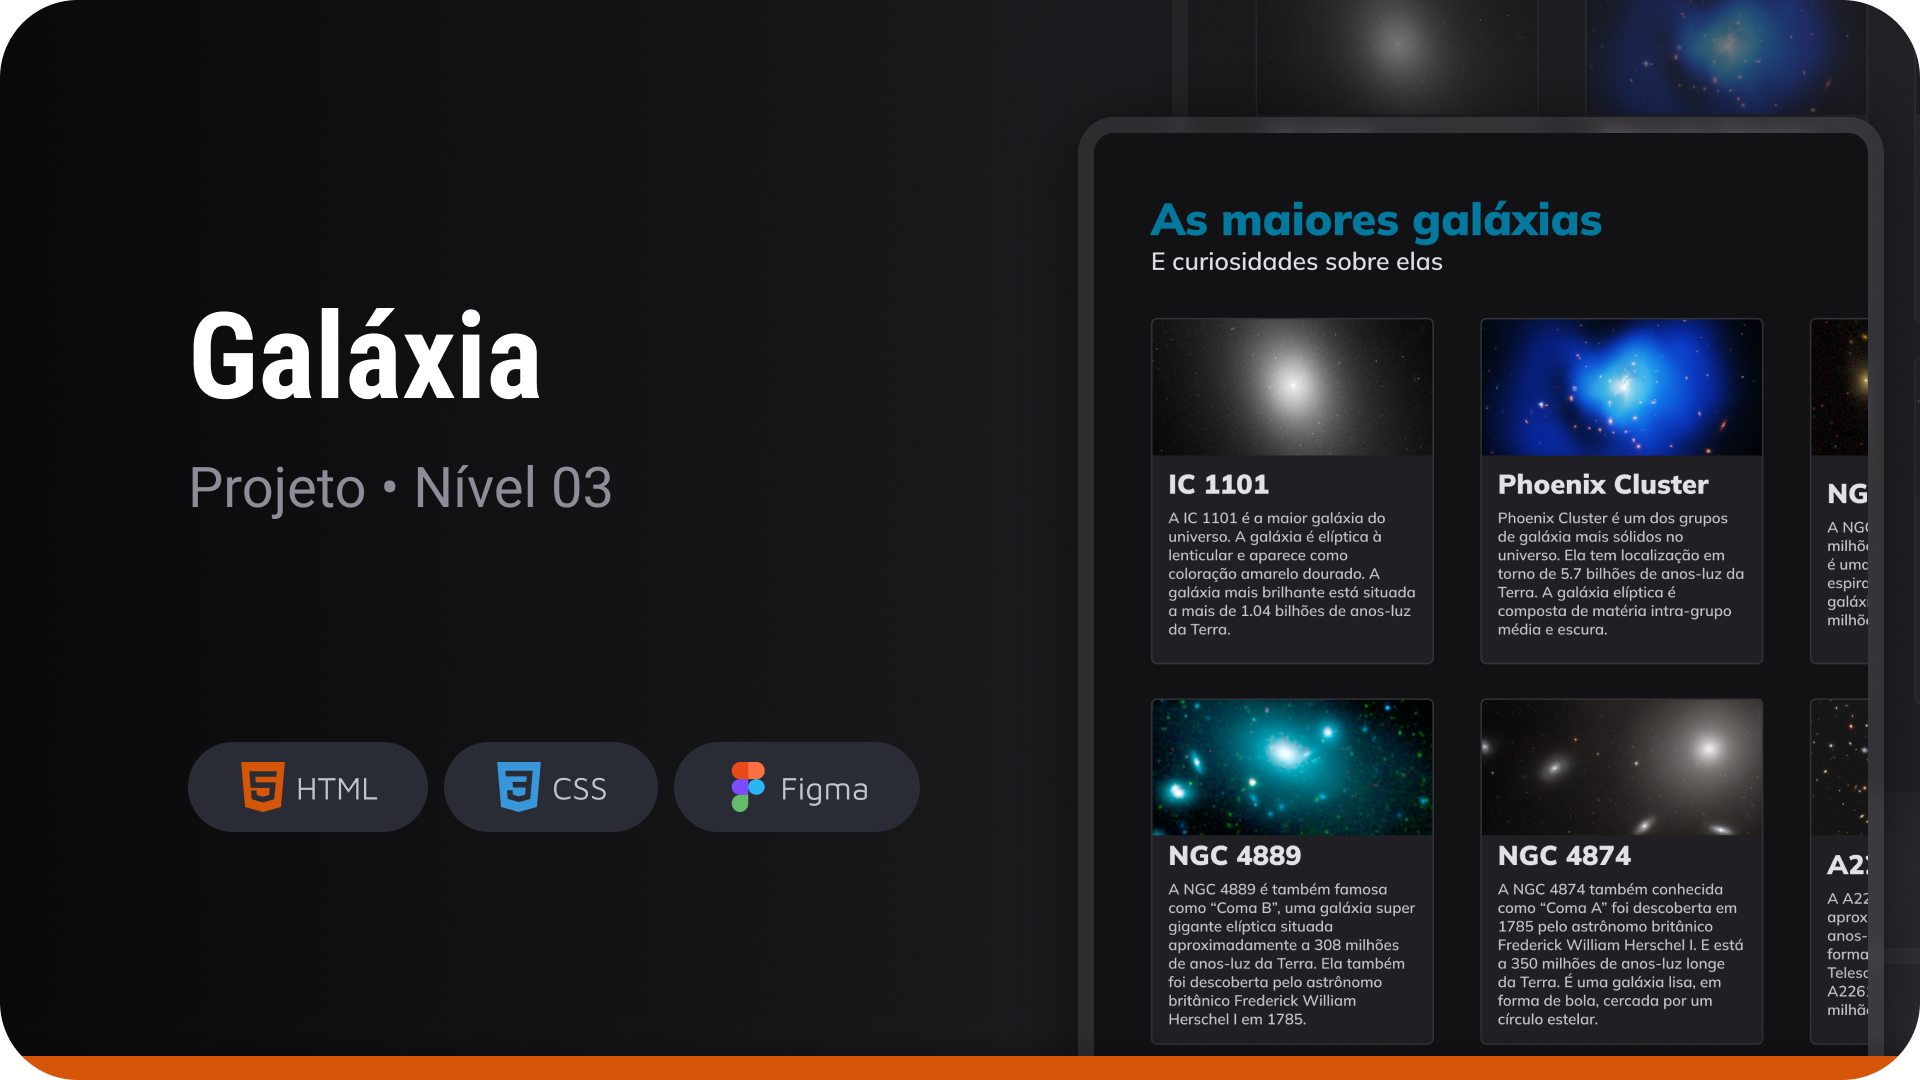
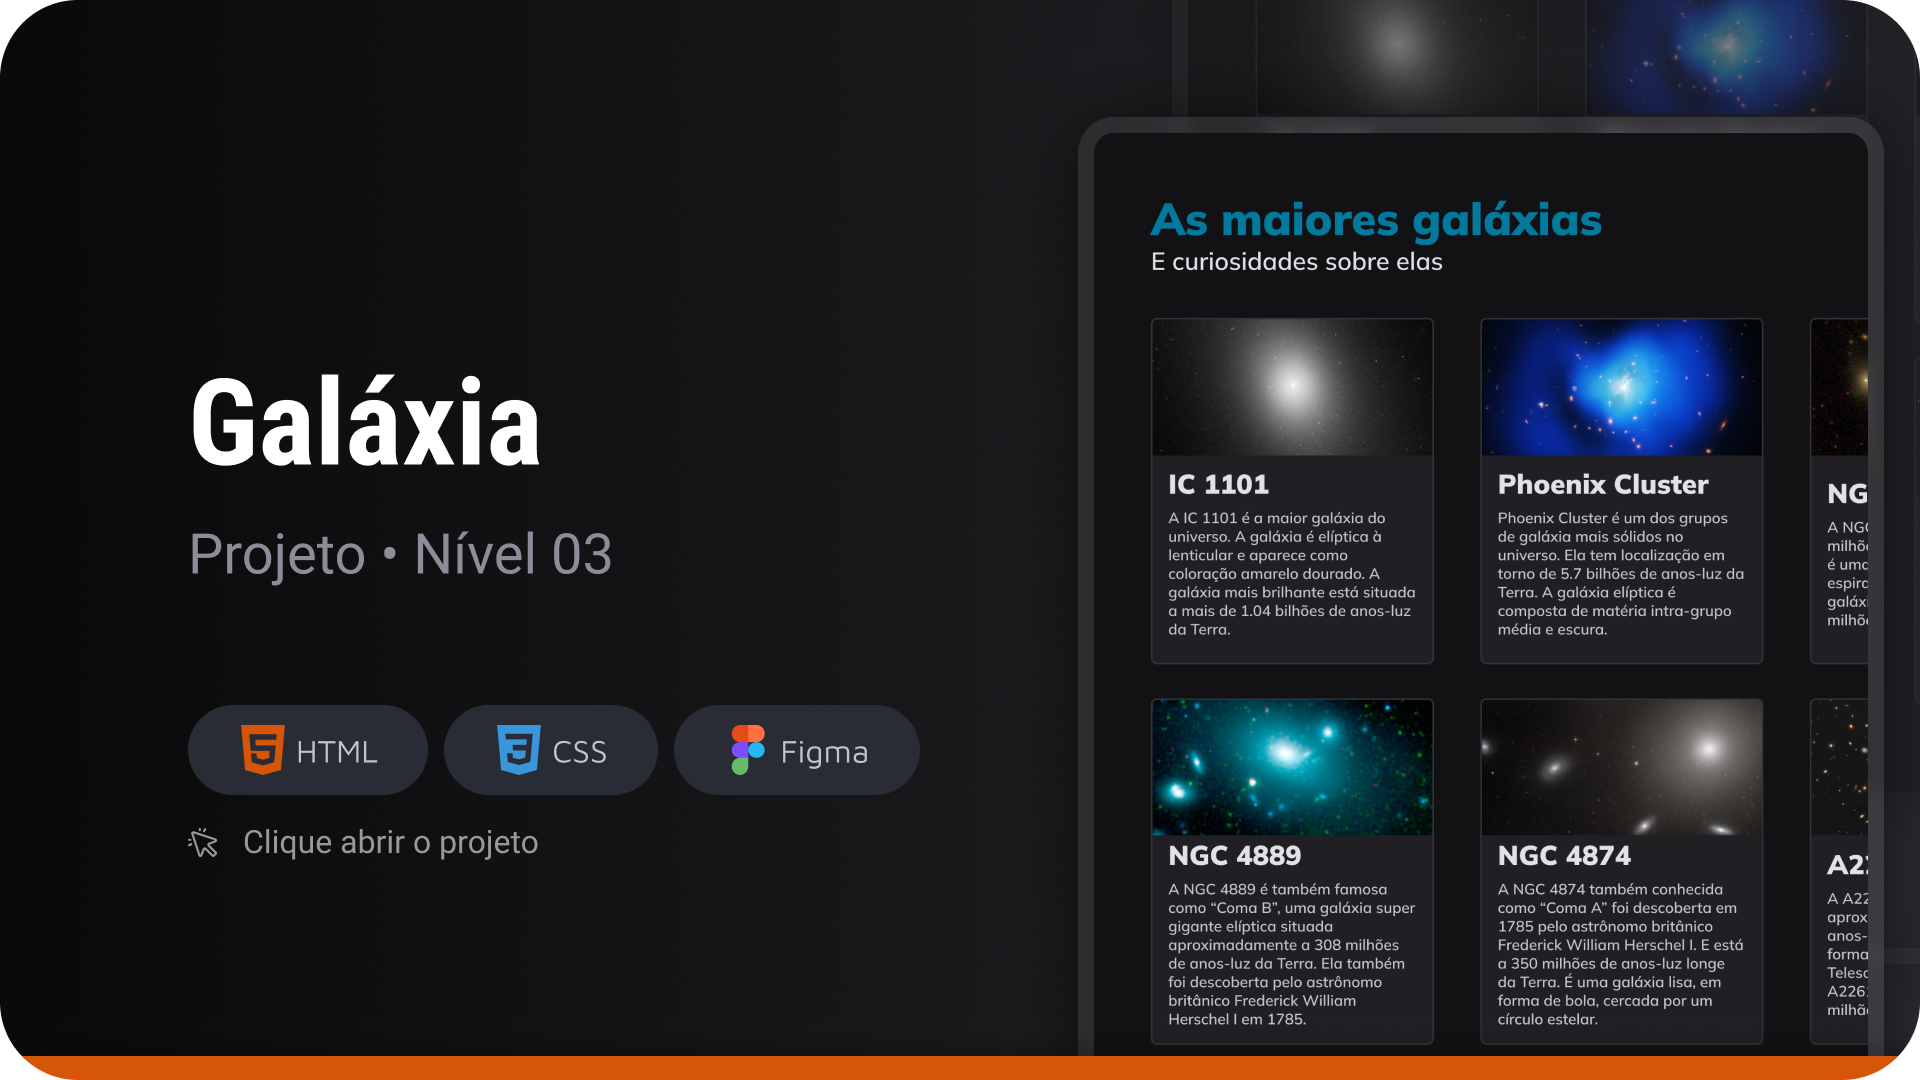
Atualização readme

Changed region(s): [[0.0938, 0.6417, 0.5, 0.7944], [0.0938, 0.275, 0.3125, 0.55]]

diff --git a/README.md b/README.md
@@ -1,20 +1,34 @@
 <body>
-    <div align="center" >
+    <div align="center">
+        <a href="https://felipe0424.github.io/projeto-galaxia" target="_blank">
         <img src="src/assets/images/galaxia.png" alt="galaxia" width="auto">
+        </a>
     </div>
 </body>
 
 # :rocket: Sobre o Projeto
 
-Olá! Sou **Felipe Ramos**, um **Desenvolvedor Front-End** apaixonado por criar experiências digitais incríveis. 
+O projeto "As Maiores Galáxias" de Nível 3 visa aperfeiçoar a usabilidade de HTML5, CSS3 e a gestão de projetos, enfatizando a organização das informações em divs e a divisão de blocos, com títulos e descrições claras.
 
-Tenho experiência em **HTML, CSS, JavaScript** e frameworks como **React e Angular**. Já desenvolvi projetos front-end, desde sites responsivos até aplicações web complexas. 
+### Objetivos
 
-Sou um profissional **comprometido, proativo e apaixonado por aprender**. Busco constantemente aprimorar minhas habilidades e me manter atualizado com as últimas tendências do mercado.
+HTML5: Utilização das novas tags semânticas para melhorar a estrutura e acessibilidade do conteúdo.
+CSS3: Aplicação de estilos avançados para tornar o design mais atraente e responsivo.
+Gestão de Projetos: Implementação de boas práticas para organizar e gerir o desenvolvimento do projeto, garantindo entregas eficientes e de alta qualidade.
+
+### Estrutura do Projeto
+Divisões de Blocos: O projeto utiliza uma abordagem modular, onde o conteúdo é dividido em blocos distintos. Cada bloco possui um título e uma descrição, facilitando a leitura e a navegação.
+Responsividade: As páginas são projetadas para serem totalmente responsivas, garantindo uma experiência consistente em diferentes dispositivos.
+Design Atraente: Utilização de CSS3 para criar um design visualmente atraente, com foco na experiência do usuário (UX).
+
+### Tecnologias Utilizadas
+HTML5: Para a estruturação do conteúdo.
+CSS3: Para a estilização e responsividade.
+JavaScript: Para adicionar interatividade quando necessário.
 
 **Confira meu portfólio para ver meus trabalhos:**
 
-<a align='center' href="https://felipe0424.github.io/projeto-galaxia"> Acessar Projeto Galáxias </a>
+<a align='center' href="https://felipe0424.github.io/PortfolioDev" target="_blank"> Acessar Portfólio </a>
 
 
 #  :computer:	Habilidades e técnicas 
